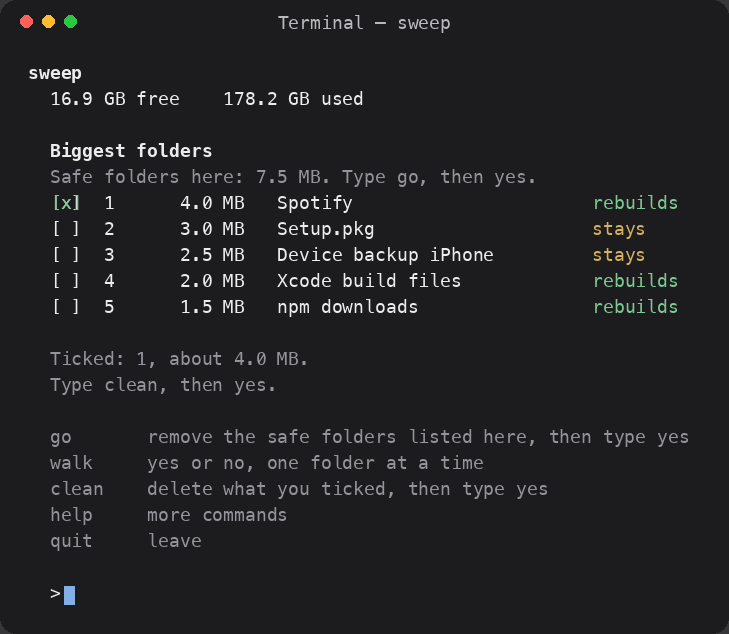
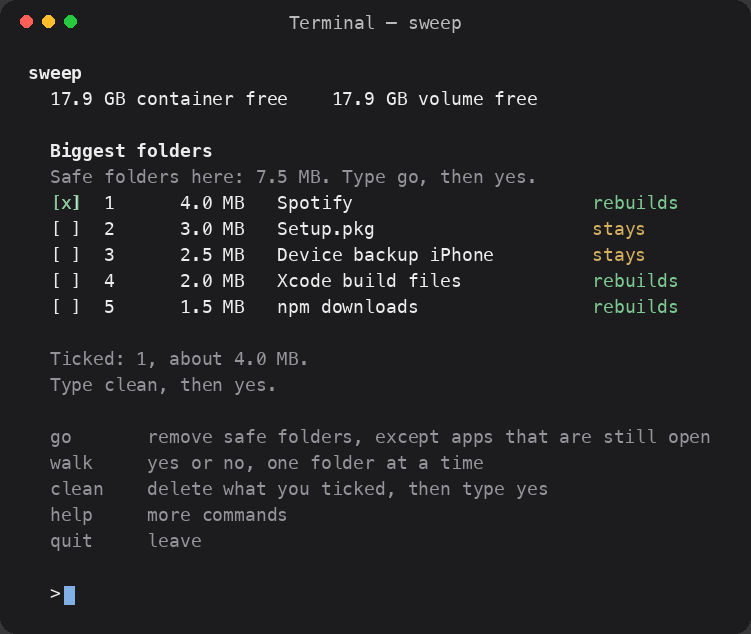
Skip open apps in go and show free space before and after.
A bulk clean no longer removes a cache while its app is still running, and the result names both disk figures.

diff --git a/README.md b/README.md
@@ -46,7 +46,7 @@ make install
 - Type `caches`, `trash`, `dev`, or `backups` to open just that list.
 - Type `groups` for the short list of those names.
 - Type `safe`, then `yes`, to clear the usual caches and leave backups alone.
-- Type `go`, then `yes`, to remove the safe folders on the list. Folders under 1 MB stay hidden until you type `small`.
+- Type `go`, then `yes`, to remove the safe folders on the list. Folders under 1 MB stay hidden until you type `small`. `go` leaves a folder alone when its app is still open.
 - Type `walk` to go one safe folder at a time. `yes` deletes it, `no` keeps it, `quit` stops.
 - Type `help` if you want the rest of the commands, and `quit` to leave.
 - Type `info 1` to see the real folder for a line. Type `last` to see what was already removed.
